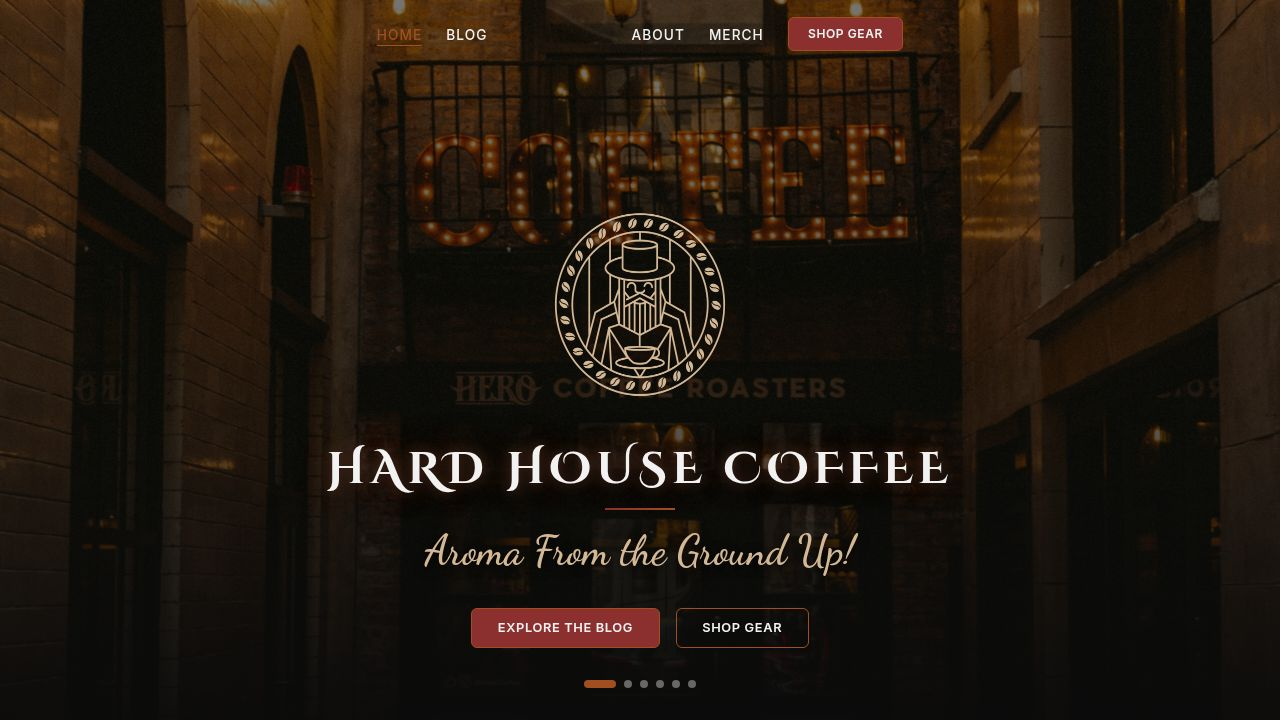
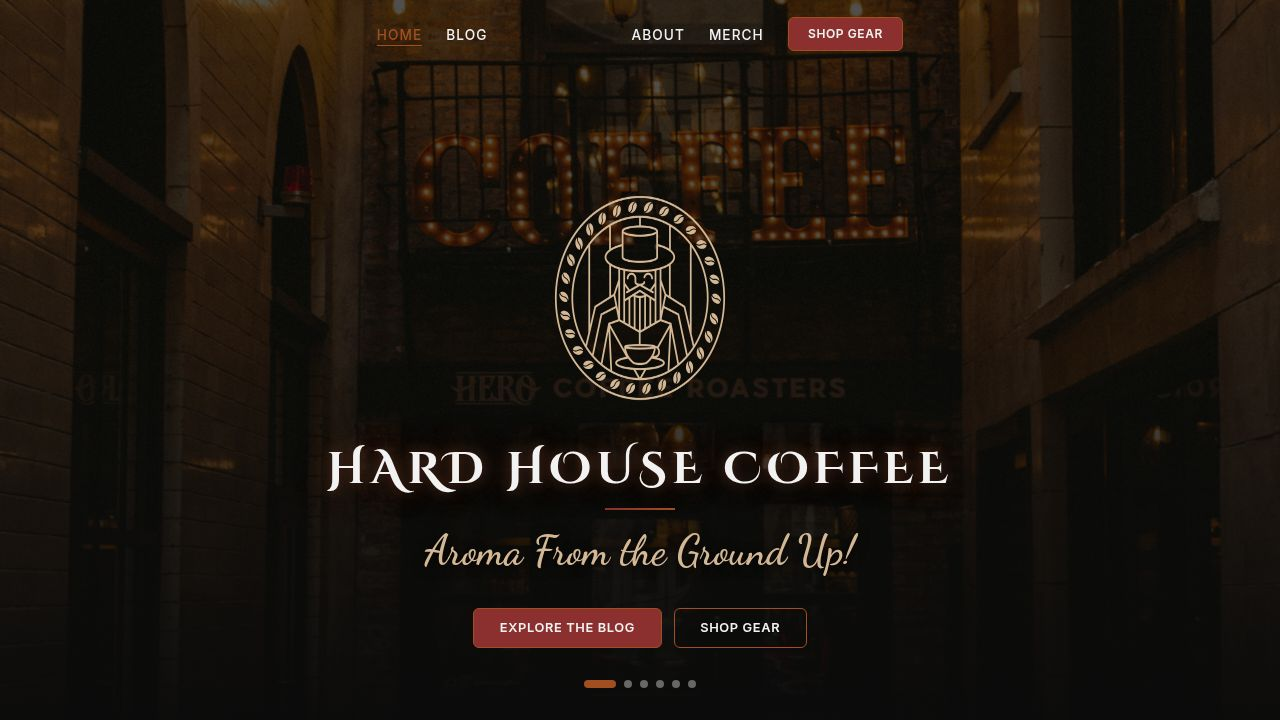
Add new article about dark roast espresso beans to the blog
Add a new blog post page for "Top 5 Dark Roast Beans for Espresso in 2026" and register its route.

Replit-Commit-Author: Agent
Replit-Commit-Session-Id: 95aa7046-7ba8-4be9-8c78-6ce84f6680a8
Replit-Commit-Checkpoint-Type: full_checkpoint
Replit-Commit-Event-Id: 5d42112e-8d33-47ed-8fa1-82e86d6d5135
Replit-Commit-Screenshot-Url: https://storage.googleapis.com/screenshot-production-us-central1/3813ce74-a858-4e6b-9c05-d6d604a93078/95aa7046-7ba8-4be9-8c78-6ce84f6680a8/F92AQDt
Replit-Helium-Checkpoint-Created: true

diff --git a/artifacts/hard-house-coffee/src/pages/BlogPostDarkRoast.tsx b/artifacts/hard-house-coffee/src/pages/BlogPostDarkRoast.tsx
@@ -1,0 +1,245 @@
+import { Link } from "wouter";
+import Navbar from "@/components/Navbar";
+import Footer from "@/components/Footer";
+
+export default function BlogPostDarkRoast() {
+  return (
+    <div style={{ backgroundColor: "#0b0b0b", color: "#f2f2f2", minHeight: "100vh" }}>
+      <Navbar />
+
+      {/* Hero banner */}
+      <div
+        className="relative overflow-hidden"
+        style={{ height: "340px", borderBottom: "1px solid rgba(161,79,31,0.2)" }}
+      >
+        <img
+          src="/images/coffee-cheers.jpg"
+          alt="Top 5 Dark Roast Beans for Espresso in 2026"
+          className="w-full h-full object-cover"
+          style={{ filter: "brightness(0.35)" }}
+        />
+        <div
+          className="absolute inset-0 flex flex-col items-center justify-center text-center px-6"
+          style={{ background: "linear-gradient(to bottom, transparent 0%, rgba(11,11,11,0.6) 100%)" }}
+        >
+          <p className="section-subtitle mb-3">Bean Picks</p>
+          <h1
+            style={{
+              fontFamily: "Inter, sans-serif",
+              fontSize: "clamp(1.2rem, 3.5vw, 2.4rem)",
+              fontWeight: 700,
+              color: "#f2f2f2",
+              lineHeight: 1.25,
+              maxWidth: "820px",
+            }}
+          >
+            Top 5 Dark Roast Beans for Espresso in 2026
+          </h1>
+          <p style={{ color: "#b0a090", marginTop: "0.75rem", fontSize: "0.85rem" }}>
+            5 min read
+          </p>
+        </div>
+      </div>
+
+      {/* Article body */}
+      <div className="max-w-2xl mx-auto px-6 py-16" style={{ lineHeight: 1.85 }}>
+
+        {/* Intro */}
+        <p style={{ color: "#d4cfc9", fontSize: "1.05rem", marginBottom: "1.25rem" }}>
+          If you want bold, rich espresso at home, your choice of beans matters more than anything else.
+        </p>
+        <p style={{ color: "#b0a090", marginBottom: "1.25rem" }}>
+          Dark roast is where most people start, but not all dark roasts are created equal. Some taste
+          smooth and full-bodied, while others taste burnt and flat.
+        </p>
+        <p style={{ color: "#b0a090", marginBottom: "2.5rem" }}>
+          Here is what actually matters.
+        </p>
+
+        <div className="divider-orange" style={{ marginBottom: "2.5rem" }} />
+
+        {/* What Makes a Good Dark Roast */}
+        <Section title="What Makes a Good Dark Roast">
+          {[
+            {
+              label: "Flavor Balance",
+              detail:
+                "A good dark roast should taste bold, not burnt. Look for chocolate, caramel, or nutty notes instead of harsh bitterness.",
+            },
+            {
+              label: "Freshness",
+              detail:
+                "Fresh beans produce better crema, better aroma, and better flavor. Always check the roast date if possible.",
+            },
+            {
+              label: "Origin",
+              detail:
+                "Even dark roasts carry characteristics from where they are grown. That is what gives them unique flavor profiles.",
+            },
+          ].map(({ label, detail }) => (
+            <div key={label} style={{ marginBottom: "1.5rem" }}>
+              <p style={{ color: "#f2f2f2", fontWeight: 700, marginBottom: "0.35rem" }}>{label}</p>
+              <p style={{ color: "#b0a090" }}>{detail}</p>
+            </div>
+          ))}
+        </Section>
+
+        {/* Top Picks */}
+        <Section title="Top Picks for 2026">
+          {[
+            {
+              num: "1",
+              name: "Sumatra Mandheling",
+              desc: "Full-bodied, earthy, and low in acidity. Great for strong espresso lovers.",
+            },
+            {
+              num: "2",
+              name: "Colombia Supremo Dark Roast",
+              desc: "Balanced and smooth with a slightly sweet finish.",
+            },
+            {
+              num: "3",
+              name: "Ethiopian Dark Roast",
+              desc: "More complex than most dark roasts, with subtle fruit notes.",
+            },
+            {
+              num: "4",
+              name: "Italian Roast Blend",
+              desc: "Classic espresso flavor. Bold, rich, and slightly smoky.",
+            },
+            {
+              num: "5",
+              name: "French Roast",
+              desc: "Very dark and intense. Best for those who prefer strong, heavy coffee.",
+            },
+          ].map(({ num, name, desc }) => (
+            <div
+              key={num}
+              style={{
+                marginBottom: "2rem",
+                paddingBottom: "2rem",
+                borderBottom: "1px solid rgba(161,79,31,0.1)",
+              }}
+            >
+              <p
+                style={{
+                  color: "#f2f2f2",
+                  fontWeight: 700,
+                  fontSize: "1rem",
+                  marginBottom: "0.5rem",
+                }}
+              >
+                {num}. {name}
+              </p>
+              <p style={{ color: "#b0a090" }}>{desc}</p>
+            </div>
+          ))}
+        </Section>
+
+        {/* Common Mistakes */}
+        <Section title="Common Mistakes">
+          {[
+            "Using pre-ground coffee",
+            "Ignoring grind size",
+            "Keeping beans too long after opening",
+          ].map((mistake) => (
+            <div
+              key={mistake}
+              style={{
+                display: "flex",
+                gap: "0.75rem",
+                alignItems: "flex-start",
+                marginBottom: "0.75rem",
+                color: "#d4cfc9",
+              }}
+            >
+              <span
+                style={{
+                  width: "6px",
+                  height: "6px",
+                  borderRadius: "50%",
+                  background: "#a14f1f",
+                  marginTop: "0.58rem",
+                  flexShrink: 0,
+                }}
+              />
+              {mistake}
+            </div>
+          ))}
+        </Section>
+
+        {/* Final Thoughts */}
+        <Section title="Final Thoughts">
+          <p style={{ marginBottom: "1rem" }}>Good espresso starts with good beans.</p>
+          <p style={{ marginBottom: "1rem" }}>
+            Once you find a dark roast that fits your taste, everything else becomes easier.
+          </p>
+          <p>
+            That is when your coffee starts to feel consistent and enjoyable.
+          </p>
+        </Section>
+
+        {/* CTA */}
+        <div
+          className="mt-12 p-6 text-center"
+          style={{
+            background: "#131313",
+            borderRadius: "8px",
+            border: "1px solid rgba(161,79,31,0.25)",
+          }}
+        >
+          <p
+            style={{
+              fontFamily: "'Cinzel Decorative', serif",
+              fontSize: "1rem",
+              color: "#f2f2f2",
+              marginBottom: "0.5rem",
+            }}
+          >
+            Ready to find your perfect roast?
+          </p>
+          <p style={{ color: "#b0a090", fontSize: "0.85rem", marginBottom: "1.25rem" }}>
+            Browse our curated bean picks and gear on the site.
+          </p>
+          <Link href="/products">
+            <button className="btn-primary">Shop Beans & Gear</button>
+          </Link>
+        </div>
+
+        {/* Back link */}
+        <div className="mt-10 text-center">
+          <Link href="/blog">
+            <button className="btn-secondary" style={{ fontSize: "0.75rem" }}>
+              Back to Blog
+            </button>
+          </Link>
+        </div>
+      </div>
+
+      <Footer />
+    </div>
+  );
+}
+
+function Section({ title, children }: { title: string; children: React.ReactNode }) {
+  return (
+    <div style={{ marginBottom: "2.5rem" }}>
+      <h2
+        style={{
+          fontFamily: "Inter, sans-serif",
+          fontSize: "clamp(1rem, 2.5vw, 1.3rem)",
+          fontWeight: 700,
+          color: "#f2f2f2",
+          marginBottom: "1rem",
+          paddingBottom: "0.5rem",
+          borderBottom: "1px solid rgba(161,79,31,0.2)",
+        }}
+      >
+        {title}
+      </h2>
+      <div style={{ color: "#b0a090", fontSize: "0.95rem" }}>
+        {children}
+      </div>
+    </div>
+  );
+}

diff --git a/artifacts/hard-house-coffee/src/App.tsx b/artifacts/hard-house-coffee/src/App.tsx
@@ -9,6 +9,7 @@ import BlogPost2026EspressoGuide from "@/pages/BlogPost2026EspressoGuide";
 import BlogPostPourOver from "@/pages/BlogPostPourOver";
 import BlogPostGrinder from "@/pages/BlogPostGrinder";
 import BlogPostEspressoRanked from "@/pages/BlogPostEspressoRanked";
+import BlogPostDarkRoast from "@/pages/BlogPostDarkRoast";
 import Products from "@/pages/Products";
 import About from "@/pages/About";
 import Contact from "@/pages/Contact";
@@ -27,6 +28,7 @@ function Router() {
       <Route path="/blog/the-art-of-the-perfect-pour-over" component={BlogPostPourOver} />
       <Route path="/blog/why-every-coffee-lover-needs-a-grinder-first-2026-guide" component={BlogPostGrinder} />
       <Route path="/blog/best-espresso-machines-2026-guide-tested-and-ranked" component={BlogPostEspressoRanked} />
+      <Route path="/blog/top-5-dark-roast-beans-for-espresso-in-2026" component={BlogPostDarkRoast} />
       <Route path="/products" component={Products} />
       <Route path="/merch" component={Products} />
       <Route path="/about" component={About} />

diff --git a/artifacts/hard-house-coffee/src/pages/Blog.tsx b/artifacts/hard-house-coffee/src/pages/Blog.tsx
@@ -35,6 +35,7 @@ const posts = [
     image: "/images/coffee-cheers.jpg",
     readTime: "5 min read",
     featured: false,
+    slug: "top-5-dark-roast-beans-for-espresso-in-2026",
   },
   {
     id: 4,